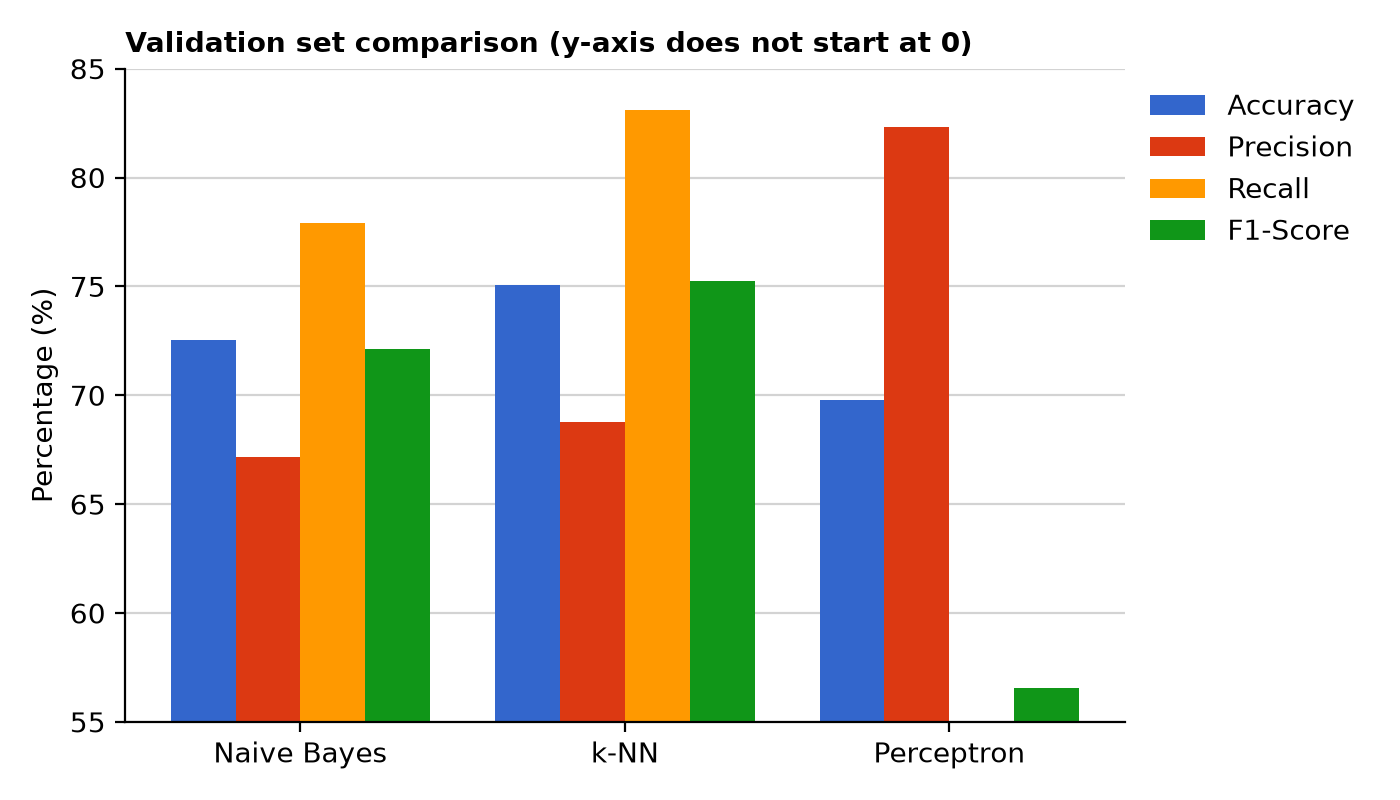
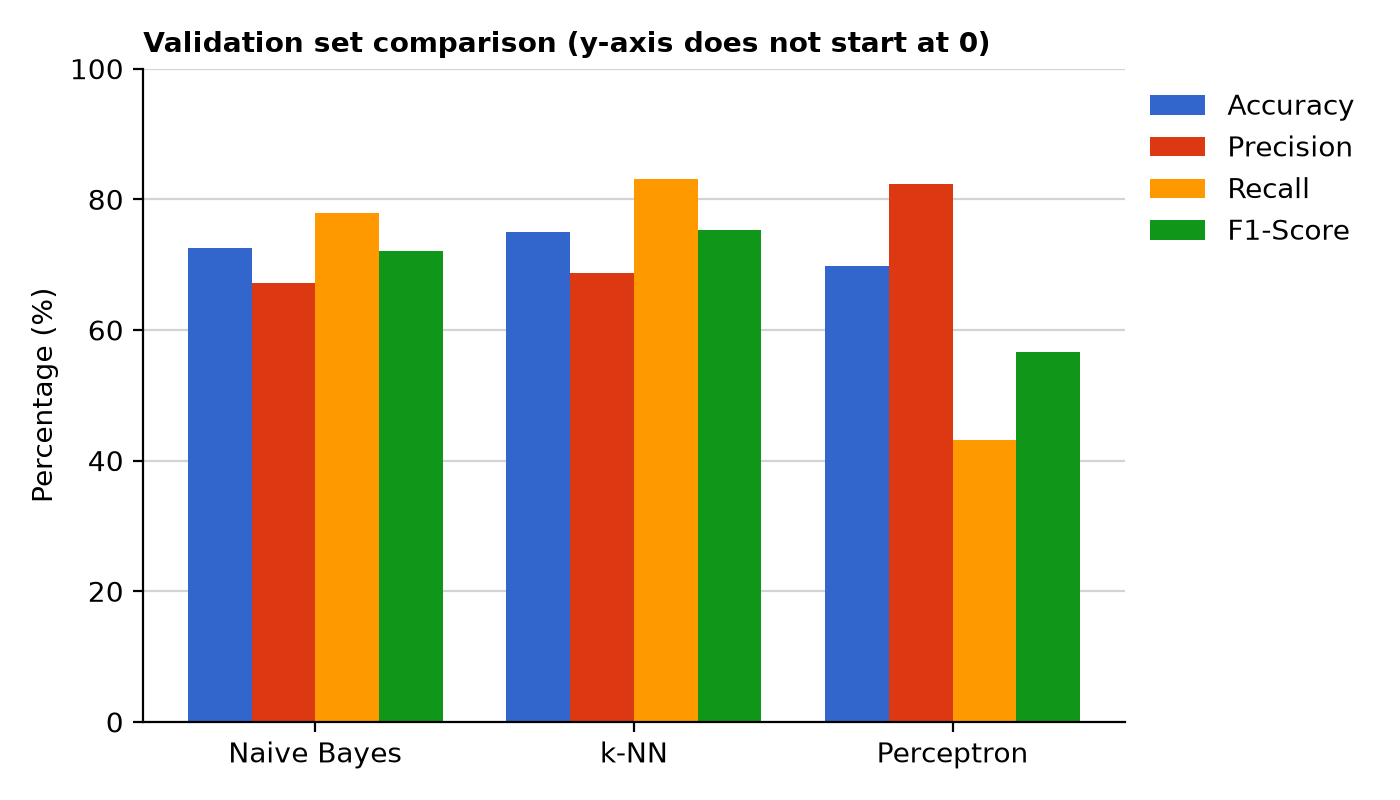
fix: fixed perceptron in bar graphs

diff --git a/methods/evaluate.py b/methods/evaluate.py
@@ -13,7 +13,7 @@ import naive_bayes
 import perceptron
 
 
-FIGURES = "methods/results/figures"
+FIGURES = "results/figures"
 METHODS = ["Naive Bayes", "k-NN", "Perceptron"]
 LINE_COLOR = "blue"
 SELECTED_COLOR = "red"
@@ -190,7 +190,7 @@ def draw_metric_bars(results, split_name, title, file_name):
             color=metric_colors[m]
         )
 
-    ax.set_ylim(55, 85)
+    ax.set_ylim(0, 100)
     ax.set_xticks(range(len(METHODS)), METHODS)
     ax.set_ylabel("Percentage (%)")
     ax.set_title(
